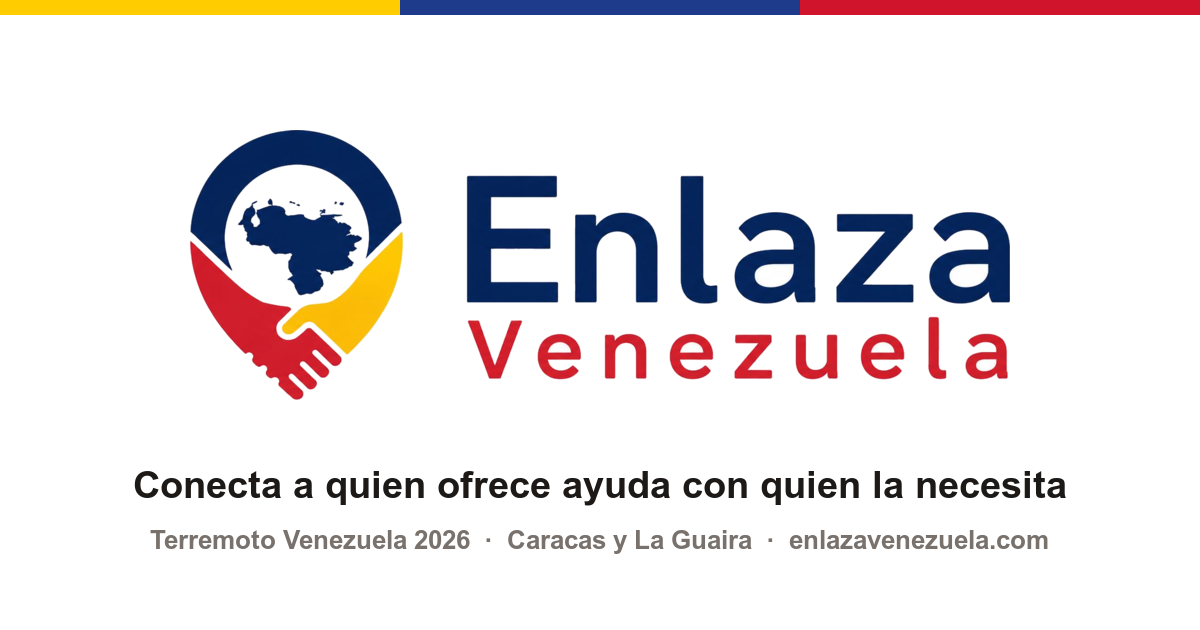
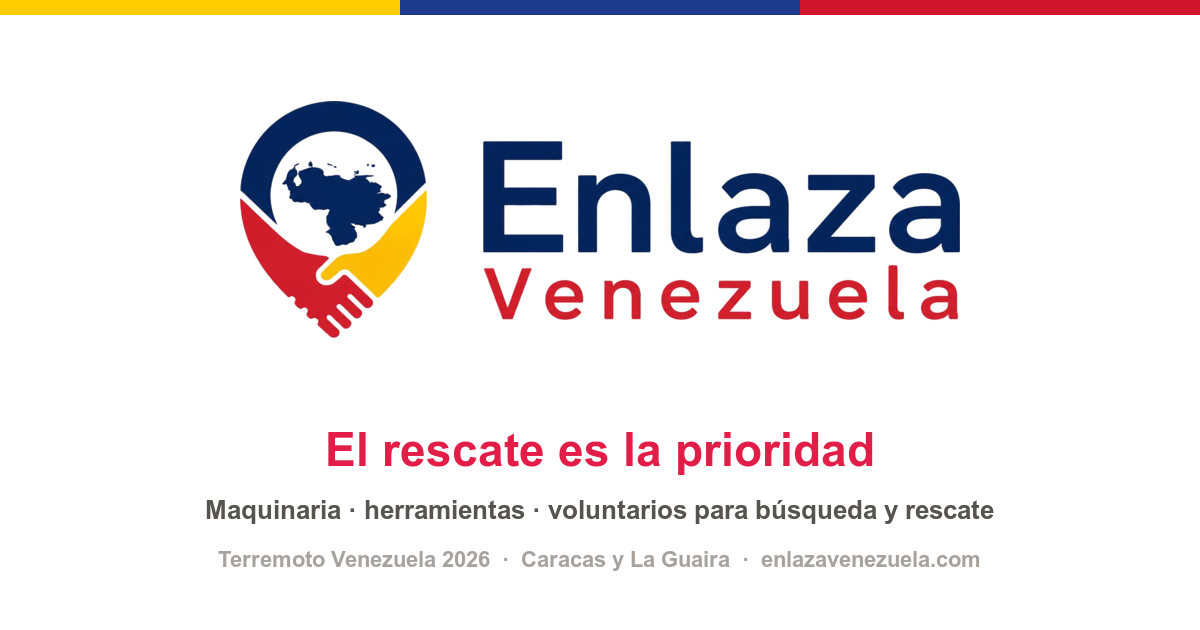
Make rescue the focus (feedback from Renée Tovar)
Rescue is the most urgent gap (authorities lack means/tools/people). Lead with it everywhere: hero priority callout + rescue CTAs that preselect the Rescate category, reordered categories (Rescate + Voluntarios first), page title/description and OG/twitter share card now lead with 'El rescate es la prioridad'. Other help stays accessible but secondary.

Changed region(s): [[0.1542, 0.1508, 0.8633, 0.6333], [0.0925, 0.6635, 0.8942, 0.9048]]

diff --git a/app/page.tsx b/app/page.tsx
@@ -41,12 +41,59 @@ export default async function Home({
             </h1>
             <p className="mt-3 text-[var(--color-muted)] max-w-2xl">
               Tras los sismos de magnitud 7.2 y 7.5 que afectaron a Caracas, La Guaira y el
-              centro del país, esta plataforma comunitaria ayuda a coordinar transporte,
-              refugio, alimentos, salud y rescate. Publica lo que ofreces o lo que
-              necesitas y contacta directamente por WhatsApp.
+              centro del país, esta plataforma comunitaria conecta directamente, por
+              WhatsApp, a quien puede ayudar con quien lo necesita.
             </p>
 
-            <div className="mt-5 flex flex-wrap items-center gap-3">
+            {/* Prioridad: rescate */}
+            <div
+              className="mt-5 max-w-2xl rounded-2xl border-2 p-4 sm:p-5"
+              style={{
+                borderColor: "var(--color-need)",
+                background: "var(--color-need-soft)",
+              }}
+            >
+              <div className="flex items-start gap-3">
+                <span className="text-2xl leading-none" aria-hidden>
+                  ⛑️
+                </span>
+                <div>
+                  <h2 className="font-bold text-[var(--color-need)]">
+                    La prioridad es el rescate
+                  </h2>
+                  <p className="text-sm mt-1 text-[var(--color-ink)]/80">
+                    Las autoridades no tienen los medios, las herramientas ni la gente
+                    suficientes. Lo más urgente:{" "}
+                    <strong>maquinaria pesada, herramientas y voluntarios con experiencia</strong>{" "}
+                    para búsqueda, rescate y remoción de escombros. Refugio, alimentos y
+                    salud también ayudan, pero el rescate no puede esperar.
+                  </p>
+                  <div className="mt-3 flex flex-wrap gap-2">
+                    <Link
+                      href="/publicar?tipo=offer&categoria=rescate"
+                      className="rounded-xl bg-[var(--color-need)] text-white font-semibold px-4 py-2 text-sm hover:brightness-95 transition"
+                    >
+                      ⛑️ Ofrezco para rescate
+                    </Link>
+                    <Link
+                      href="/publicar?tipo=need&categoria=rescate"
+                      className="rounded-xl border-2 font-semibold px-4 py-2 text-sm transition hover:bg-white"
+                      style={{
+                        borderColor: "var(--color-need)",
+                        color: "var(--color-need)",
+                      }}
+                    >
+                      🆘 Necesito rescate
+                    </Link>
+                  </div>
+                </div>
+              </div>
+            </div>
+
+            <p className="mt-6 text-sm font-medium text-[var(--color-muted)]">
+              ¿Otro tipo de ayuda? También coordinamos refugio, alimentos, salud y más:
+            </p>
+            <div className="mt-2 flex flex-wrap items-center gap-3">
               <Link
                 href="/publicar?tipo=need"
                 className="rounded-xl bg-[var(--color-need)] text-white font-semibold px-5 py-3 hover:brightness-95 transition"

diff --git a/lib/data.ts b/lib/data.ts
@@ -10,6 +10,18 @@ export interface Category {
 /** Tipos de ayuda que se pueden ofrecer o solicitar. */
 export const CATEGORIES: Category[] = [
   {
+    id: "rescate",
+    label: "Rescate y mano de obra",
+    icon: "⛑️",
+    hint: "PRIORIDAD: búsqueda y rescate, remoción de escombros, maquinaria pesada, herramientas, brigadas con experiencia",
+  },
+  {
+    id: "voluntarios",
+    label: "Voluntarios",
+    icon: "🙋",
+    hint: "Personas dispuestas a ayudar con su tiempo: rescate, logística, reparto, censo, apoyo",
+  },
+  {
     id: "transporte",
     label: "Transporte",
     icon: "🚚",
@@ -32,18 +44,6 @@ export const CATEGORIES: Category[] = [
     label: "Salud y medicinas",
     icon: "🩺",
     hint: "Medicamentos, primeros auxilios, atención médica, insumos",
-  },
-  {
-    id: "rescate",
-    label: "Rescate y mano de obra",
-    icon: "⛑️",
-    hint: "Búsqueda y rescate, remoción de escombros",
-  },
-  {
-    id: "voluntarios",
-    label: "Voluntarios",
-    icon: "🙋",
-    hint: "Personas dispuestas a ayudar con su tiempo: logística, reparto, censo, apoyo",
   },
   {
     id: "materiales",

diff --git a/app/layout.tsx b/app/layout.tsx
@@ -12,22 +12,22 @@ export const viewport: Viewport = {
 
 export const metadata: Metadata = {
   metadataBase: new URL("https://www.enlazavenezuela.com"),
-  title: "Enlaza Venezuela — Conecta ayuda tras el terremoto",
+  title: "Enlaza Venezuela — El rescate es la prioridad",
   description:
-    "Plataforma comunitaria que conecta a quienes ofrecen ayuda con quienes la necesitan tras los terremotos del 24 de junio de 2026 en Venezuela. Enfocada en Caracas y La Guaira.",
+    "El rescate es la prioridad: conectamos maquinaria pesada, herramientas y voluntarios con experiencia para búsqueda, rescate y remoción de escombros tras los terremotos del 24 de junio de 2026 en Venezuela. También refugio, alimentos y salud. Caracas y La Guaira.",
   openGraph: {
-    title: "Enlaza Venezuela — Conecta ayuda tras el terremoto",
+    title: "Enlaza Venezuela — El rescate es la prioridad",
     description:
-      "Conecta a quienes ofrecen ayuda con quienes la necesitan tras el terremoto. Caracas y La Guaira.",
+      "Conectamos maquinaria, herramientas y voluntarios para búsqueda y rescate tras el terremoto. También refugio, alimentos y salud. Caracas y La Guaira.",
     siteName: "Enlaza Venezuela",
     locale: "es_VE",
     type: "website",
   },
   twitter: {
     card: "summary_large_image",
-    title: "Enlaza Venezuela — Conecta ayuda tras el terremoto",
+    title: "Enlaza Venezuela — El rescate es la prioridad",
     description:
-      "Conecta a quienes ofrecen ayuda con quienes la necesitan tras el terremoto.",
+      "Conectamos maquinaria, herramientas y voluntarios para búsqueda y rescate tras el terremoto.",
   },
   appleWebApp: {
     capable: true,

diff --git a/components/PostForm.tsx b/components/PostForm.tsx
@@ -9,10 +9,18 @@ import { saveToken } from "@/lib/manage-tokens";
 
 const initialState: FormState = {};
 
-export default function PostForm({ defaultType = "need" }: { defaultType?: PostType }) {
+export default function PostForm({
+  defaultType = "need",
+  defaultCategory = "",
+}: {
+  defaultType?: PostType;
+  defaultCategory?: string;
+}) {
   const [state, formAction, pending] = useActionState(createPostAction, initialState);
   const [type, setType] = useState<PostType>(defaultType);
-  const [category, setCategory] = useState<string>("");
+  const [category, setCategory] = useState<string>(
+    CATEGORIES.some((c) => c.id === defaultCategory) ? defaultCategory : "",
+  );
   const [city, setCity] = useState<string>("caracas");
   const [coords, setCoords] = useState<{ lat: number; lng: number } | null>(null);
   const [locStatus, setLocStatus] = useState<

diff --git a/app/publicar/page.tsx b/app/publicar/page.tsx
@@ -7,10 +7,11 @@ import type { PostType } from "@/lib/types";
 export default async function PublicarPage({
   searchParams,
 }: {
-  searchParams: Promise<{ tipo?: string }>;
+  searchParams: Promise<{ tipo?: string; categoria?: string }>;
 }) {
   const sp = await searchParams;
   const defaultType: PostType = sp.tipo === "offer" ? "offer" : "need";
+  const defaultCategory = sp.categoria ?? "";
 
   return (
     <>
@@ -32,7 +33,7 @@ export default async function PublicarPage({
           </p>
 
           <div className="mt-6 rounded-2xl border border-[var(--color-border)] bg-[var(--color-surface)] p-5 sm:p-7">
-            <PostForm defaultType={defaultType} />
+            <PostForm defaultType={defaultType} defaultCategory={defaultCategory} />
           </div>
         </div>
       </main>